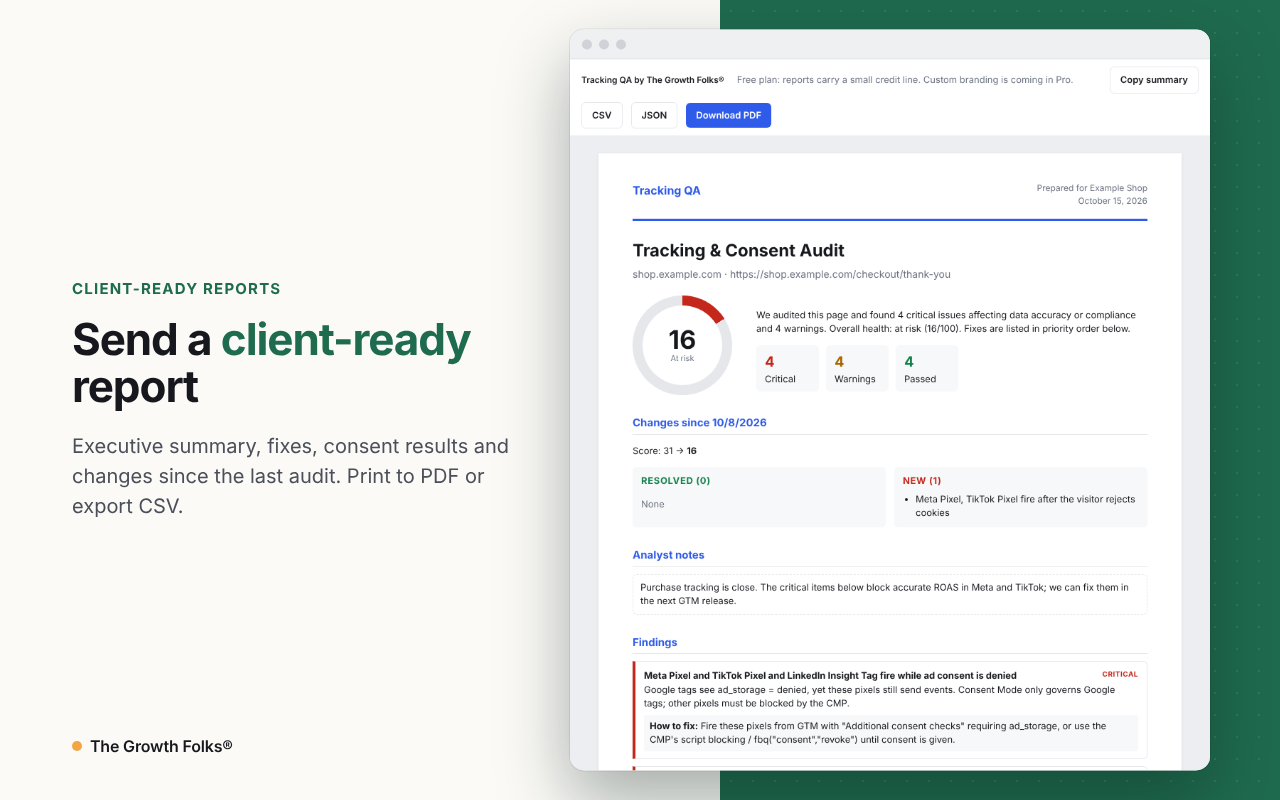
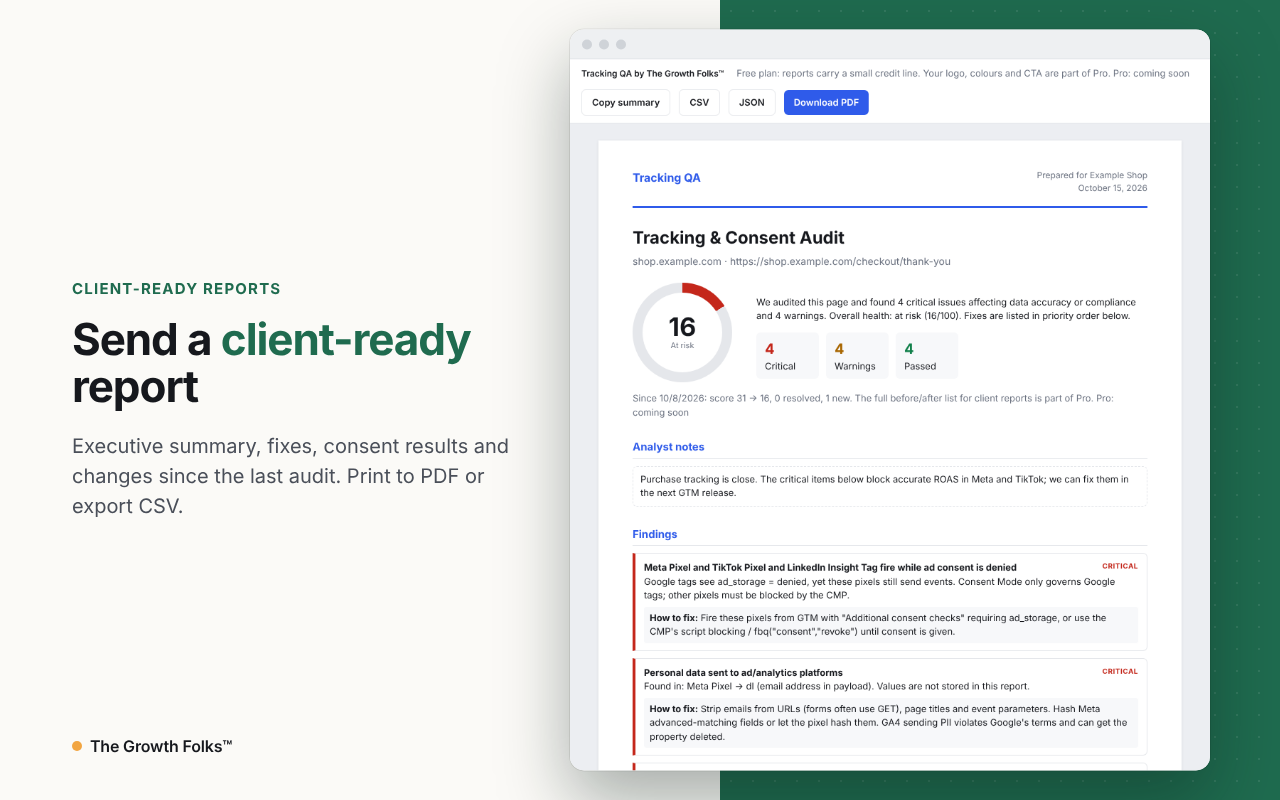
Prepare Pro launch: upgrade prompts, Pro-only change history, close dev-toggle bypass
- The developer Pro toggle is honoured only on unpacked installs; a store
  install could previously unlock Pro by writing plan to storage.
- Upgrade prompts at every Free limit (scan pages, history, Monitor tab,
  report branding, changes since), each tagged with utm_content. They read
  'Pro: coming soon' until licensing is enabled.
- 'Changes since last audit' is Pro; Free reports show a one-line preview
  that is left out of the PDF.
- Activation-limit errors explain how to get a key reset after a reinstall.
- Side panel refreshes when a licence is activated or removed.
- Monthly/yearly checkout links and support email in license-config.js.
- Use The Growth Folks(TM) instead of (R) until the mark is registered;
  store graphics regenerated.
- docs/PRO-LAUNCH.md: Dodo setup, config, reinstall policy, ready-to-paste
  privacy and store listing text. Plan decisions recorded in PLANS.md.

Claude-Session: https://claude.ai/code/session_01X6xspAfbzqrYJUVTVdEMEF

diff --git a/src/plan.js b/src/plan.js
@@ -1,16 +1,29 @@
 // Free vs Pro gating. The plan comes from a validated licence key (src/license.js, off until
-// LICENSE_CONFIG.enabled) or, on unpacked developer installs, the Pro toggle in Options. Must match docs/PLANS.md.
+// LICENSE_CONFIG.enabled) or, on unpacked developer installs only, the Pro toggle in Options. Must match docs/PLANS.md.
 import { LICENSE_CONFIG } from './license-config.js';
 import { getLicense, planFromLicense } from './license.js';
 
 export const LIMITS = {
-  free: { scanPages: 3, historyItems: 5, customBranding: false, monitors: 0 },
-  pro: { scanPages: 50, historyItems: 500, customBranding: true, monitors: 20 },
+  free: { scanPages: 3, historyItems: 5, customBranding: false, monitors: 0, changesSince: false },
+  pro: { scanPages: 50, historyItems: 500, customBranding: true, monitors: 20, changesSince: true },
 };
 
+// The developer toggle is honoured only on unpacked installs, so a store install can't unlock Pro by
+// writing `plan` into storage. management.getSelf needs no permission.
+let devInstall;
+async function isDevInstall() {
+  if (devInstall === undefined) {
+    const self = await chrome.management?.getSelf?.().catch(() => null);
+    devInstall = self?.installType === 'development';
+  }
+  return devInstall;
+}
+
 export async function getPlan() {
-  const { plan } = await chrome.storage.local.get('plan'); // developer toggle
-  if (plan === 'pro') return 'pro';
+  if (await isDevInstall()) {
+    const { plan } = await chrome.storage.local.get('plan');
+    if (plan === 'pro') return 'pro';
+  }
   if (!LICENSE_CONFIG.enabled) return 'free';
   return planFromLicense(await getLicense()) === 'pro' ? 'pro' : 'free';
 }
@@ -21,4 +34,35 @@ export async function setPlan(plan) {
 
 export async function getLimits() {
   return LIMITS[await getPlan()];
+}
+
+// True once Pro can actually be bought; until then upgrade prompts say "coming soon" (no misleading claims).
+export const proOnSale = () => LICENSE_CONFIG.enabled;
+
+// Checkout link for an upgrade prompt. `where` names the prompt (utm_content) so the pricing page and the
+// provider's analytics show which limit sold the upgrade.
+export function upgradeUrl(where, period = '') {
+  const cfg = LICENSE_CONFIG;
+  const u = new URL((period && cfg.checkoutUrls?.[period]) || cfg.checkoutUrl);
+  u.searchParams.set('utm_source', 'chrome-extension');
+  u.searchParams.set('utm_medium', 'upgrade');
+  u.searchParams.set('utm_campaign', cfg.extension);
+  if (where) u.searchParams.set('utm_content', where);
+  return u.toString();
+}
+
+// Appends "Upgrade to Pro" (or "Pro: coming soon" before launch) after `el`'s text. Built with DOM nodes, not HTML.
+export function appendUpgrade(el, where, label = 'Upgrade to Pro') {
+  el.querySelector('.upgrade')?.remove();
+  const node = proOnSale() ? document.createElement('a') : document.createElement('span');
+  node.className = 'upgrade';
+  if (proOnSale()) {
+    node.href = upgradeUrl(where);
+    node.target = '_blank';
+    node.rel = 'noopener';
+    node.textContent = label;
+  } else {
+    node.textContent = 'Pro: coming soon';
+  }
+  el.append(' ', node);
 }

diff --git a/report/report.js b/report/report.js
@@ -1,7 +1,7 @@
 import { getAudit, getBrand, listAudits, updateAudit } from '../src/storage.js';
 import { diffFindings, findPrevious } from '../src/diff.js';
 import { findingsToCsv, download, summaryText } from '../src/export.js';
-import { getPlan, LIMITS } from '../src/plan.js';
+import { getPlan, LIMITS, appendUpgrade } from '../src/plan.js';
 import { platformLabel } from '../src/detectors.js';
 import { CONSENT_SIGNALS } from '../src/checks.js';
 import { getSettings } from '../src/storage.js';
@@ -51,11 +51,15 @@ function consentTestHtml(t) {
     ${t.signalsAfter ? `<p class="muted" style="margin-top:8px">Google consent afterwards: ${['ad_storage', 'analytics_storage', 'ad_user_data', 'ad_personalization'].map(s => `${s} <b class="${cls(t.signalsAfter[s]?.effective)}">${esc(t.signalsAfter[s]?.effective || 'unset')}</b>`).join(' · ')}</p>` : ''}`;
 }
 
-function changesHtml(previous, findings, score) {
+function changesHtml(previous, findings, score, full) {
   if (!previous) return '';
   const prevFindings = previous.type === 'site' ? previous.site.findings : previous.result.findings;
   const d = diffFindings(prevFindings, findings);
   const prevScore = previous.type === 'site' ? previous.site.score : previous.result.score;
+  // Free plan: a one-line preview (kept out of the printed PDF); the full resolved/new lists are Pro.
+  if (!full) {
+    return `<p class="muted changes-teaser no-print" id="changes-teaser">Since ${esc(new Date(previous.createdAt).toLocaleDateString())}: score ${esc(prevScore)} → ${esc(score)}, ${esc(d.resolved.length)} resolved, ${esc(d.added.length)} new. The full before/after list for client reports is part of Pro.</p>`;
+  }
   const list = arr => arr.length ? `<ul>${arr.map(f => `<li>${esc(f.title)}</li>`).join('')}</ul>` : '<p class="muted">None</p>';
   return `<h2>Changes since ${esc(new Date(previous.createdAt).toLocaleDateString())}</h2>
     <p>Score: ${esc(prevScore)} → <b>${esc(score)}</b></p>
@@ -154,7 +158,7 @@ async function render() {
       </div>
     </div>
 
-    ${changesHtml(previous, data.findings, data.score)}
+    ${changesHtml(previous, data.findings, data.score, LIMITS[plan].changesSince)}
 
     <h2>Analyst notes</h2>
     <div class="notes" id="notes" contenteditable="true" data-placeholder="Click to add notes for your client (saved automatically, hidden in the PDF if empty).">${esc(audit.notes || '')}</div>
@@ -187,7 +191,11 @@ async function render() {
       ${footerCredit(LIMITS[plan].customBranding, showCredit !== false)}
     </div>`;
 
-  document.getElementById('toolbar-note').textContent = plan === 'pro' ? '' : 'Free plan: reports carry a small credit line. Custom branding is coming in Pro.';
+  const note = document.getElementById('toolbar-note');
+  note.textContent = plan === 'pro' ? '' : 'Free plan: reports carry a small credit line. Your logo, colours and CTA are part of Pro.';
+  if (plan !== 'pro') appendUpgrade(note, 'report-toolbar', 'Upgrade to Pro');
+  const teaser = document.getElementById('changes-teaser');
+  if (teaser) appendUpgrade(teaser, 'report-changes', 'See it with Pro');
 }
 
 let current = null;

diff --git a/sidepanel/sidepanel.js b/sidepanel/sidepanel.js
@@ -2,7 +2,7 @@ import { platformLabel } from '../src/detectors.js';
 import { CONSENT_SIGNALS } from '../src/checks.js';
 import { describeParams } from '../src/params.js';
 import { listAudits, deleteAudit, getSettings, setSettings, listMonitors, saveMonitors, newId, importAudit } from '../src/storage.js';
-import { getPlan, getLimits } from '../src/plan.js';
+import { getPlan, getLimits, appendUpgrade } from '../src/plan.js';
 import { hitsToCsv, hitsToHar, download, summaryText } from '../src/export.js';
 import { wireTgfLinks } from '../src/brand.js';
 
@@ -292,6 +292,7 @@ $('start-scan').addEventListener('click', async () => {
 async function renderMonitors() {
   const pro = (await getPlan()) === 'pro';
   $('monitor-locked').hidden = pro;
+  if (!pro) appendUpgrade($('monitor-locked'), 'monitor-tab', 'Upgrade to Pro');
   $('monitor-form').hidden = !pro;
   $('run-monitors').hidden = !pro;
   const monitors = await listMonitors();
@@ -390,6 +391,10 @@ async function renderPlan() {
   $('plan-badge').classList.toggle('pro', plan === 'pro');
   $('scan-limit').textContent = `${plan === 'pro' ? 'Pro' : 'Free'} plan: up to ${limits.scanPages} pages per scan.`;
   $('history-limit').textContent = `${plan === 'pro' ? 'Pro' : 'Free'} plan keeps your last ${limits.historyItems} audits.`;
+  if (plan !== 'pro') {
+    appendUpgrade($('scan-limit'), 'scan-limit', 'Scan 50 pages with Pro');
+    appendUpgrade($('history-limit'), 'history-limit', 'Keep 500 with Pro');
+  }
 }
 
 async function init() {
@@ -404,5 +409,6 @@ async function init() {
 
 if (!pinnedTabId) chrome.tabs.onActivated.addListener(refreshLive);
 chrome.tabs.onUpdated.addListener((tabId, info) => { if (tabId === activeTabId && info.url) refreshLive(); });
-chrome.storage.onChanged.addListener((changes, area) => { if (area === 'local' && changes.plan) { renderPlan(); renderMonitors(); } });
+// The plan changes with the developer toggle or when a licence is activated, revalidated or removed.
+chrome.storage.onChanged.addListener((changes, area) => { if (area === 'local' && (changes.plan || changes['license'])) { renderPlan(); renderMonitors(); } });
 init();

diff --git a/src/license.js b/src/license.js
@@ -81,14 +81,15 @@ providers.dodo = {
     try { data = await res.json(); } catch { /* empty body */ }
     return { network: res.status >= 500 || res.status === 429, status: res.status, ok: res.ok, data };
   },
-  errorFor(status) {
-    return { 404: 'This licence key does not exist.', 403: 'This licence key is not active (expired, refunded or disabled).', 422: 'This licence key has reached its activation limit. Deactivate it on another browser first.' }[status]
+  errorFor(status, cfg) {
+    const reset = cfg?.supportEmail ? ` If you reinstalled the extension or changed computer, email ${cfg.supportEmail} with your key and we'll reset it.` : '';
+    return { 404: 'This licence key does not exist.', 403: 'This licence key is not active (expired, refunded or disabled).', 422: `This licence key has reached its activation limit. Deactivate it on another browser first.${reset}` }[status]
       || 'This licence key could not be activated.';
   },
   async activate(key, instanceName, fetchImpl, cfg) {
     const r = await this.call(cfg, 'activate', { license_key: key, name: instanceName }, fetchImpl);
     if (r.network) return { ok: false, network: true, error: 'Could not reach the licence server. Try again later.' };
-    if (!r.ok) return { ok: false, network: false, error: this.errorFor(r.status) };
+    if (!r.ok) return { ok: false, network: false, error: this.errorFor(r.status, cfg) };
     return { ok: true, network: false, error: null, status: 'active', expiresAt: null, instanceId: r.data.id || null,
       meta: { storeId: r.data.business_id ?? null, productId: r.data.product?.product_id ?? null, variantId: null, productName: r.data.product?.name || '', variantName: '' } };
   },

diff --git a/sidepanel/sidepanel.html b/sidepanel/sidepanel.html
@@ -8,7 +8,7 @@
 </head>
 <body>
   <header class="top">
-    <div class="brand">Tracking QA <span id="plan-badge" class="badge"></span><a class="tgf-mark" data-tgf="landing" data-tgf-content="panel-header" title="Tracking QA &amp; Client Audit by The Growth Folks®">by The Growth Folks®</a></div>
+    <div class="brand">Tracking QA <span id="plan-badge" class="badge"></span><a class="tgf-mark" data-tgf="landing" data-tgf-content="panel-header" title="Tracking QA &amp; Client Audit by The Growth Folks™">by The Growth Folks™</a></div>
     <span><a href="#" id="pop-out" class="link" title="Open in a separate window pinned to this tab">Pop out</a> · <a href="#" id="open-options" class="link">Settings</a></span>
   </header>
 
@@ -94,7 +94,7 @@
   <!-- Monitor -->
   <section id="tab-monitor" class="tab-panel" hidden>
     <p class="small">Re-scan client sites on a schedule and get a desktop alert when tracking breaks or the score drops. <span class="badge pro">Pro</span> Runs while Chrome is open.</p>
-    <div id="monitor-locked" class="card" hidden>Scheduled monitoring is coming soon in Pro.</div>
+    <div id="monitor-locked" class="card" hidden>Scheduled monitoring re-audits up to 20 sites daily or weekly and alerts you when tracking breaks. It's part of Pro.</div>
     <div id="monitor-form">
       <label for="mon-urls" class="small">URLs to monitor</label>
       <textarea id="mon-urls" rows="4" placeholder="https://client.com/&#10;https://client.com/checkout/thank-you"></textarea>

diff --git a/test/plan.test.js b/test/plan.test.js
@@ -1,0 +1,32 @@
+import { test } from 'node:test';
+import assert from 'node:assert/strict';
+
+// Minimal chrome stub: storage.local plus management.getSelf with a configurable install type.
+function stubChrome(installType, stored = {}) {
+  globalThis.chrome = {
+    storage: { local: { get: async k => ({ [k]: stored[k] }), set: async o => Object.assign(stored, o) } },
+    management: { getSelf: async () => ({ installType }) },
+  };
+}
+
+test('developer Pro toggle is ignored on store installs', async () => {
+  stubChrome('normal', { plan: 'pro' });
+  const { getPlan } = await import(`../src/plan.js?store`);
+  assert.equal(await getPlan(), 'free');
+});
+
+test('developer Pro toggle works on unpacked installs', async () => {
+  stubChrome('development', { plan: 'pro' });
+  const { getPlan } = await import(`../src/plan.js?dev`);
+  assert.equal(await getPlan(), 'pro');
+});
+
+test('upgrade links carry utm_content for the prompt that was clicked', async () => {
+  stubChrome('normal');
+  const { upgradeUrl, LIMITS } = await import(`../src/plan.js?links`);
+  const u = new URL(upgradeUrl('scan-limit'));
+  assert.equal(u.searchParams.get('utm_content'), 'scan-limit');
+  assert.equal(u.searchParams.get('utm_medium'), 'upgrade');
+  assert.equal(LIMITS.free.changesSince, false);
+  assert.equal(LIMITS.pro.changesSince, true);
+});

diff --git a/options/options.js b/options/options.js
@@ -1,6 +1,6 @@
 import { getBrand, setBrand, getSettings, setSettings } from '../src/storage.js';
 import { wireTgfLinks } from '../src/brand.js';
-import { getPlan, setPlan, LIMITS } from '../src/plan.js';
+import { getPlan, setPlan, LIMITS, upgradeUrl } from '../src/plan.js';
 import { LICENSE_CONFIG } from '../src/license-config.js';
 import { activateLicense, deactivateLicense, getLicense, revalidateIfDue, planFromLicense } from '../src/license.js';
 
@@ -75,8 +75,8 @@ async function renderLicense() {
   $('license-box').hidden = !LICENSE_CONFIG.enabled;
   if (!LICENSE_CONFIG.enabled) return;
   document.querySelector('#license-box').closest('fieldset').querySelector('.hint').textContent =
-    'Pro: white-label reports (your logo, colours, CTA, no credit line), 50-page scans, scheduled monitoring with alerts, 500 saved audits.';
-  $('license-buy').href = LICENSE_CONFIG.checkoutUrl;
+    'Pro: white-label reports (your logo, colours, CTA, no credit line), "changes since last audit" in reports, 50-page scans, scheduled monitoring with alerts, 500 saved audits. 7-day free trial.';
+  $('license-buy').href = upgradeUrl('options-plan');
   $('license-manage').href = LICENSE_CONFIG.manageUrl;
   const state = await getLicense();
   const active = planFromLicense(state) !== 'free';

diff --git a/options/options.html b/options/options.html
@@ -19,7 +19,7 @@
 </head>
 <body>
   <h1 style="font-size:18px;margin-bottom:2px">Tracking QA settings</h1>
-  <a class="tgf-mark" data-tgf="landing" data-tgf-content="options-header">Tracking QA &amp; Client Audit by The Growth Folks®</a>
+  <a class="tgf-mark" data-tgf="landing" data-tgf-content="options-header">Tracking QA &amp; Client Audit by The Growth Folks™</a>
 
   <fieldset>
     <legend>Plan</legend>
@@ -79,7 +79,7 @@
 
   <fieldset>
     <legend>Report credit</legend>
-    <label style="font-weight:400"><input type="checkbox" id="showCredit"> Show a small "Made with Tracking QA &amp; Client Audit by The Growth Folks®" line in the footer of client reports</label>
+    <label style="font-weight:400"><input type="checkbox" id="showCredit"> Show a small "Made with Tracking QA &amp; Client Audit by The Growth Folks™" line in the footer of client reports</label>
     <div class="hint">Your own name, logo and contact line always stay the main branding. Turn this off to leave the credit out of reports you send to clients. Saved as soon as you change it.</div>
   </fieldset>
 

diff --git a/report/report.html b/report/report.html
@@ -8,7 +8,7 @@
 </head>
 <body>
   <div class="toolbar no-print">
-    <span class="tgf-tool"><a data-tgf="landing" data-tgf-content="report-toolbar">Tracking QA by The Growth Folks®</a> <span class="tgf-links"><a data-tgf="landing" data-tgf-content="report-toolbar">Help</a> · <a data-tgf="privacy" data-tgf-content="report-toolbar">Privacy</a> · <a data-tgf="contact">Contact</a> · <a data-tgf="learn" data-tgf-content="report-toolbar">Learn growth marketing</a></span></span>
+    <span class="tgf-tool"><a data-tgf="landing" data-tgf-content="report-toolbar">Tracking QA by The Growth Folks™</a> <span class="tgf-links"><a data-tgf="landing" data-tgf-content="report-toolbar">Help</a> · <a data-tgf="privacy" data-tgf-content="report-toolbar">Privacy</a> · <a data-tgf="contact">Contact</a> · <a data-tgf="learn" data-tgf-content="report-toolbar">Learn growth marketing</a></span></span>
     <span id="toolbar-note" class="muted"></span>
     <span class="spacer"></span>
     <button id="copy" class="ghost">Copy summary</button>

diff --git a/src/license-config.js b/src/license-config.js
@@ -17,7 +17,12 @@ export const LICENSE_CONFIG = {
   bundleProducts: {},
   // Lemon Squeezy only: per-variant override, e.g. an Agency variant { 777: 'pro' }
   variants: {},
+  // Pricing page (used by generic upgrade prompts) and, once products exist, direct checkout links per period,
+  // e.g. { monthly: 'https://checkout.dodopayments.com/buy/pdt_…', yearly: '…' }.
   checkoutUrl: 'https://thegrowthfolks.com/tools/tracking-qa/pricing',
+  checkoutUrls: {},
+  // Shown when a key hits its activation limit (e.g. after reinstalling), so the buyer can ask for a reset.
+  supportEmail: 'hello@thegrowthfolks.com',
   // Customer portal where buyers manage or cancel subscriptions (Dodo or Lemon Squeezy).
   manageUrl: 'https://thegrowthfolks.com/account',
   revalidateDays: 3,

diff --git a/sidepanel/sidepanel.css b/sidepanel/sidepanel.css
@@ -86,7 +86,7 @@ input[type=search] { width: 100%; }
 .ct-table th { color: var(--muted); font-weight: 500; font-size: 11px; }
 code { font-family: ui-monospace, monospace; font-size: 11px; }
 
-/* The Growth Folks® mark + footer links */
+/* The Growth Folks™ mark + footer links */
 .tgf-mark { display: block; font-size: 10.5px; font-weight: 500; color: var(--muted); text-decoration: none; margin-top: 1px; }
 .tgf-mark:hover { color: var(--accent); }
 .tgf-foot { padding: 14px 12px 16px; border-top: 1px solid var(--line); font-size: 11px; color: var(--muted); text-align: center; }

diff --git a/src/storage.js b/src/storage.js
@@ -57,7 +57,7 @@ export function newId() {
   return `${Date.now().toString(36)}-${Math.random().toString(36).slice(2, 8)}`;
 }
 
-// showCredit: the small "Made with … by The Growth Folks®" line in client reports (on by default, user can turn it off).
+// showCredit: the small "Made with … by The Growth Folks™" line in client reports (on by default, user can turn it off).
 export const DEFAULT_SETTINGS = { preserveLog: false, showCredit: true, customProviders: [], idLabels: {} };
 
 export async function getSettings() {
